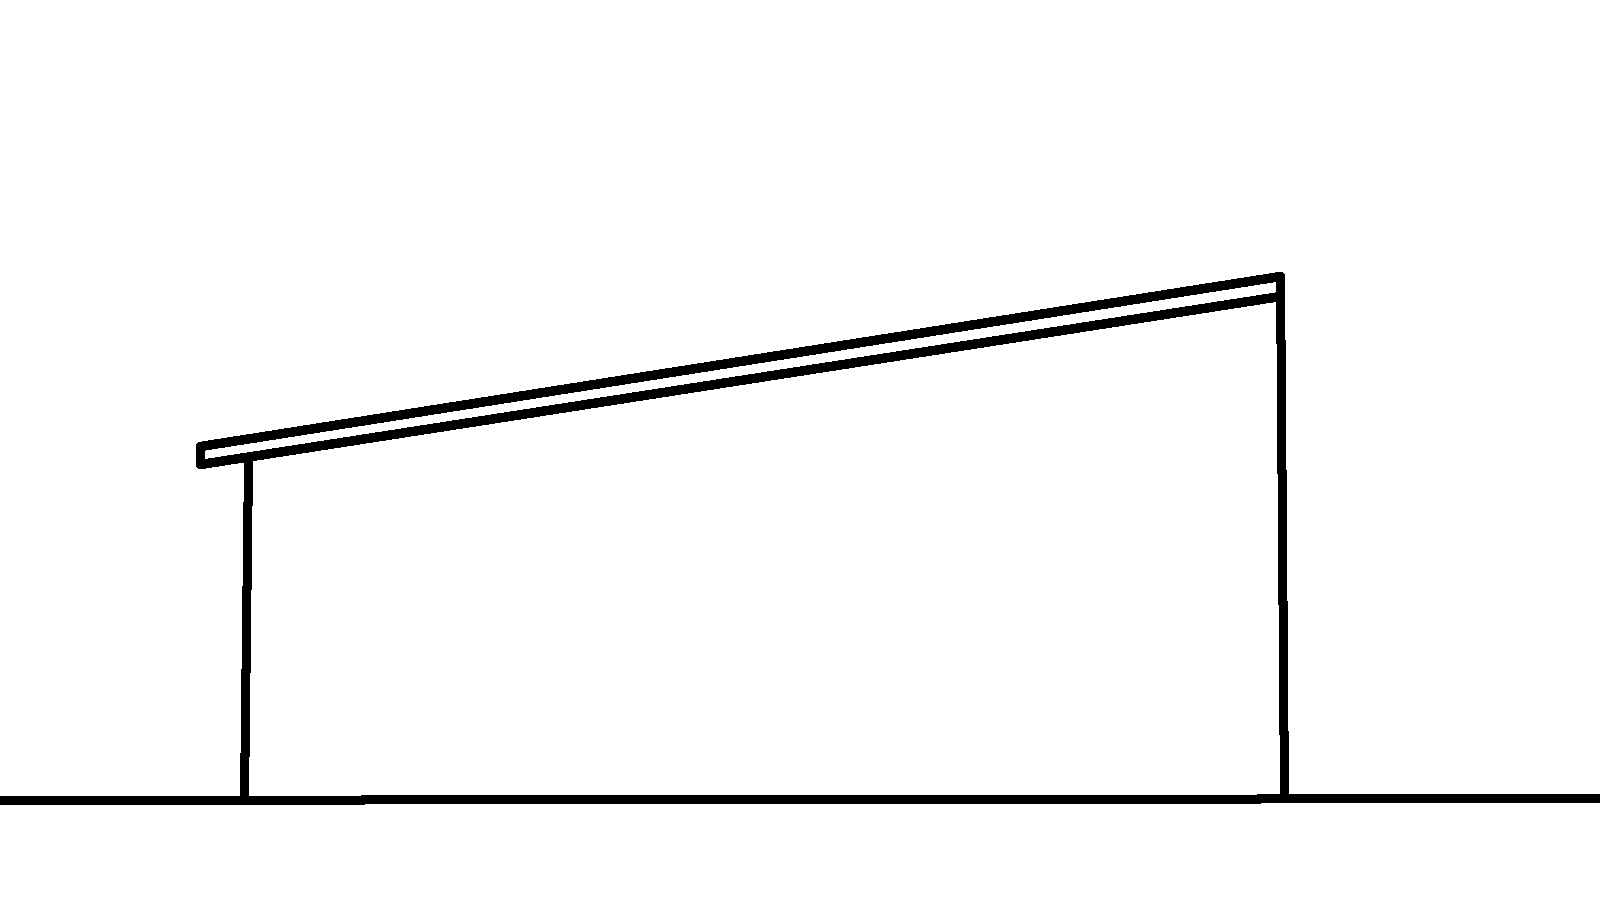
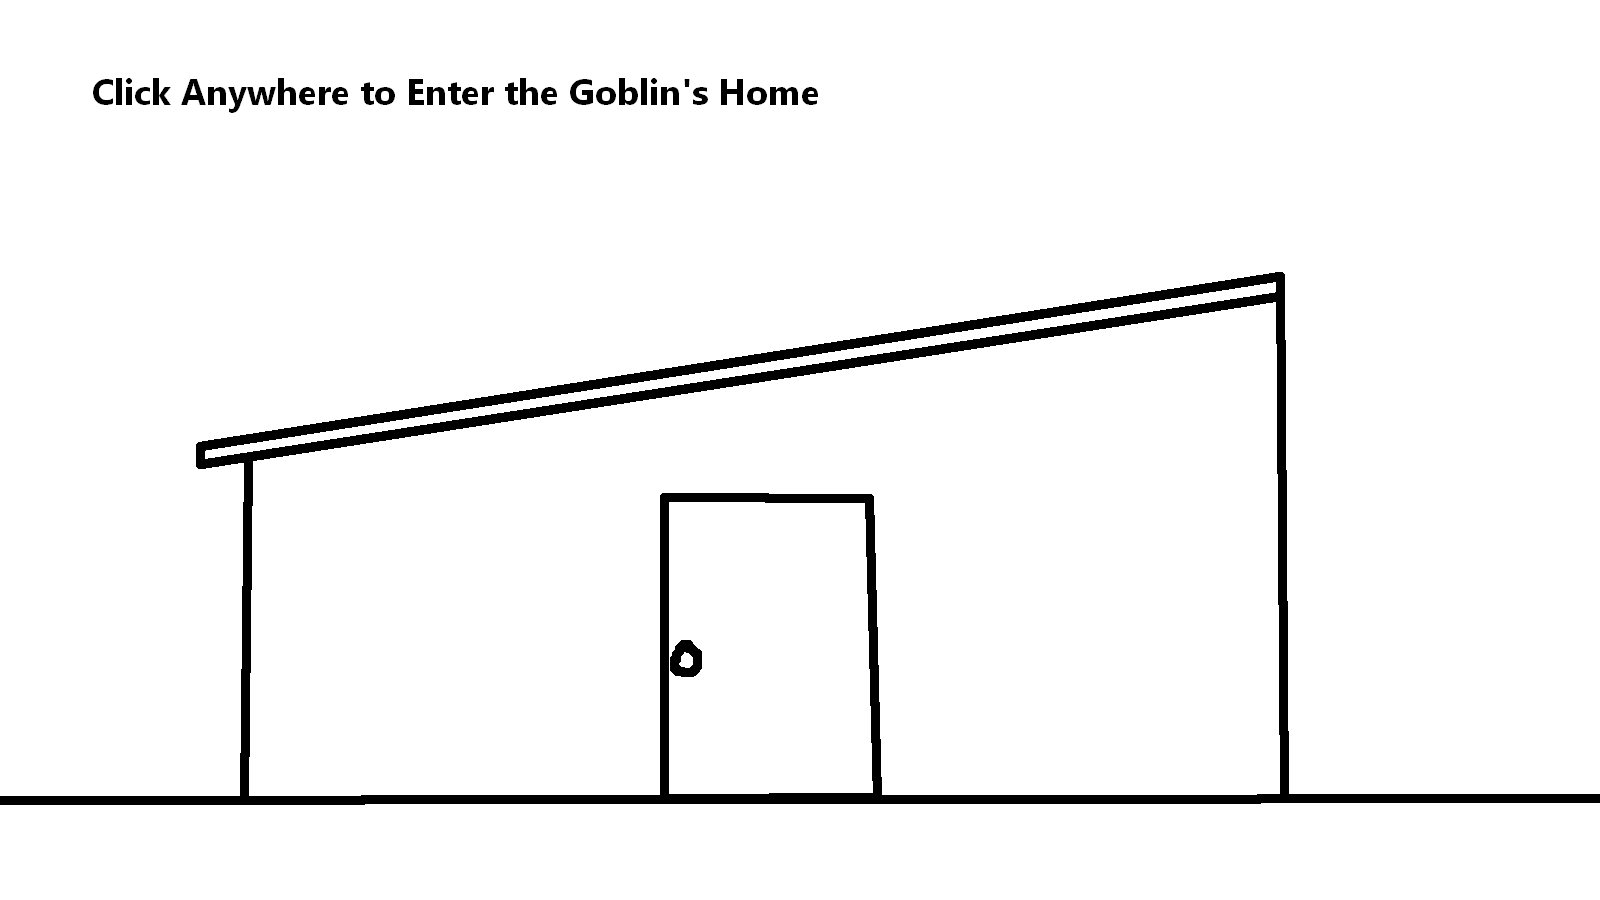
finisHEEE
two to the one to the one to the HEE

Changed region(s): [[0.4062, 0.5289, 0.5625, 0.9022], [0.0625, 0.0933, 0.5312, 0.1244]]

diff --git a/statescene/sketch.js b/statescene/sketch.js
@@ -5,27 +5,52 @@
 // Make Frend With Gobbo
 
 let state;
+let gobStateDuration = 2000;
 let lastStateChange;
 
-//images
-let door;
-let houseWindow;
-let goblinDoor1;
-let goblinDoor2;
+//holy bagoli look at all these image variables
 let house;
+let goblin1;
+let goblin2;
+let goblin3;
+let leavingButton;
+let stayingButton;
 
+let goblinLeave;
+//wowie theres more
+let goblinPolice1;
+let goblinPolice2;
+let ending1;
+let ending2;
+let ending3;
+let ending4;
+let ending5;
+let ending6;
+let ending7;
 
-
-function preload() {
+function preload() { //oh wow these image variables are turning into images
   state = 1;
-  door = loadImage("assets/Door.png");
-  houseWindow = loadImage("assets/Window.png");
-  goblinDoor1 = loadImage("assets/Goblin 1D.png");
-  goblinDoor2 = loadImage("assets/Goblin 2D.png");
+  lastStateChange = 0;
   house = loadImage("assets/House Background.png");
+  goblin1 = loadImage("assets/Goblin 1D.png");
+  goblin2 = loadImage("assets/Goblin 2D.png");
+  goblin3 = loadImage("assets/Goblin 3D.png");
+  leavingButton = loadImage("assets/Leaving Button.png");
+  stayingButton = loadImage("assets/Staying Button.png");
 
+  goblinLeave = loadImage("assets/Leaving.png");
+
+  goblinPolice1 = loadImage("assets/Goblin 1Y.png");
+  goblinPolice2 = loadImage("assets/Goblin 2Y.png");
+  ending1 = loadImage("assets/Ending 1.png");
+  ending2 = loadImage("assets/Ending 2.png");
+  ending3 = loadImage("assets/Ending 3.png");
+  ending4 = loadImage("assets/Ending 4.png");
+  ending5 = loadImage("assets/Ending 5.png");
+  ending6 = loadImage("assets/Ending 6.png");
+  ending7 = loadImage("assets/Ending 7.png");
 }
-
+//phew we're away from the images
 function setup() {
   createCanvas(windowWidth, windowHeight);
 }
@@ -34,17 +59,123 @@ function draw() {
   background(255);
   checkState();
 }
+//whenever you click your mouse in the right place at the right time
+function mousePressed() {
+  if (state === 1) {
+    state = 2;
+    lastStateChange = millis();
+  }
+  else if (state === 4 && mouseX >= 100 && mouseX <=400 && mouseY >= 600 && mouseY <= 700) {
+    state = 5;
+    lastStateChange = millis();
+  }
+  else if (state === 4 && mouseX >= 1200 && mouseX <= 1500 && mouseY >= 600 && mouseY <= 700) {
+    state = 6;
+    lastStateChange = millis();
+  }
+}
+
+//WARINGINGGGIN
+//this code is freakin' finger vomit
+//if you want to keep your sanity, then just look at the first one
+//theyre all the same except the last one, which is just the first couple of lines
+//either way you WILL lose your mind looking at this shiz V V V V
+
 
 function checkState() {
-  let elapsedTime = millis() - lastStateChange;
   if (state === 1) {
-    image(house, 0, 0);
-    image(door, 50, 90);
+    image(house, 0, 0, windowWidth, windowHeight);
+  }
+  else if (state === 2) {
+    image(goblin1, 0, 0, windowWidth, windowHeight);
+    let elapsedTime = millis() - lastStateChange;
+    if (elapsedTime >= gobStateDuration) {
+      state = 3;
+      lastStateChange = millis();
+    }
+  }
+  else if (state === 3) {
+    image(goblin2, 0, 0, windowWidth, windowHeight);
+    let elapsedTime = millis() - lastStateChange;
+    if (elapsedTime >= gobStateDuration) {
+      state = 4;
+      lastStateChange = millis();
+    }
+  }
+  else if (state === 4) {
+    image(goblin3, 0, 0, windowWidth, windowHeight);
+    image(leavingButton, 0, 0, windowWidth, windowHeight);
+    image(stayingButton, 0, 0, windowWidth, windowHeight);
+  }
+  else if (state === 5) {
+    image(goblinLeave, 0, 0, windowWidth, windowHeight);
+  }
+  else if (state === 6) {
+    image(goblinPolice1, 0, 0, windowWidth, windowHeight);
+    let elapsedTime = millis() - lastStateChange;
+    if (elapsedTime >= gobStateDuration) {
+      state = 7;
+      lastStateChange = millis();
+    }
+  }
+  else if (state === 7) {
+    image(goblinPolice2, 0, 0, windowWidth, windowHeight);
+    let elapsedTime = millis() - lastStateChange;
+    if (elapsedTime >= gobStateDuration) {
+      state = 8;
+      lastStateChange = millis();
+    }
+  }
+  else if (state === 8) {
+    image(ending1, 0, 0, windowWidth, windowHeight);
+    let elapsedTime = millis() - lastStateChange;
+    if (elapsedTime >= gobStateDuration) {
+      state = 9;
+      lastStateChange = millis();
+    }
+  }
+  else if (state === 9) {
+    image(ending2, 0, 0, windowWidth, windowHeight);
+    let elapsedTime = millis() - lastStateChange;
+    if (elapsedTime >= gobStateDuration) {
+      state = 10;
+      lastStateChange = millis();
+    }
+  }
+  else if (state === 10) {
+    image(ending3, 0, 0, windowWidth, windowHeight);
+    let elapsedTime = millis() - lastStateChange;
+    if (elapsedTime >= gobStateDuration) {
+      state = 11;
+      lastStateChange = millis();
+    }
+  }
+  else if (state === 11) {
+    image(ending4, 0, 0, windowWidth, windowHeight);
+    let elapsedTime = millis() - lastStateChange;
+    if (elapsedTime >= gobStateDuration) {
+      state = 12;
+      lastStateChange = millis();
+    }
+  }
+  else if (state === 12) {
+    image(ending5, 0, 0, windowWidth, windowHeight);
+    let elapsedTime = millis() - lastStateChange;
+    if (elapsedTime >= gobStateDuration) {
+      state = 13;
+      lastStateChange = millis();
+    }
+  }
+  else if (state === 13) {
+    image(ending6, 0, 0, windowWidth, windowHeight);
+    let elapsedTime = millis() - lastStateChange;
+    if (elapsedTime >= gobStateDuration) {
+      state = 14;
+      lastStateChange = millis();
+    }
+  }
+  else if (state === 14) {
+    image(ending7, 0, 0, windowWidth, windowHeight);
   }
 }
-
-function clickDoor() {
-  if (mouseIsPressed() && mouseX >= 50 && mouseX <= 90 && mouseY >= 90 && mouseY <= 50) {
-    state = 2;
-  }
-}
+//told ya it was finger vomit
